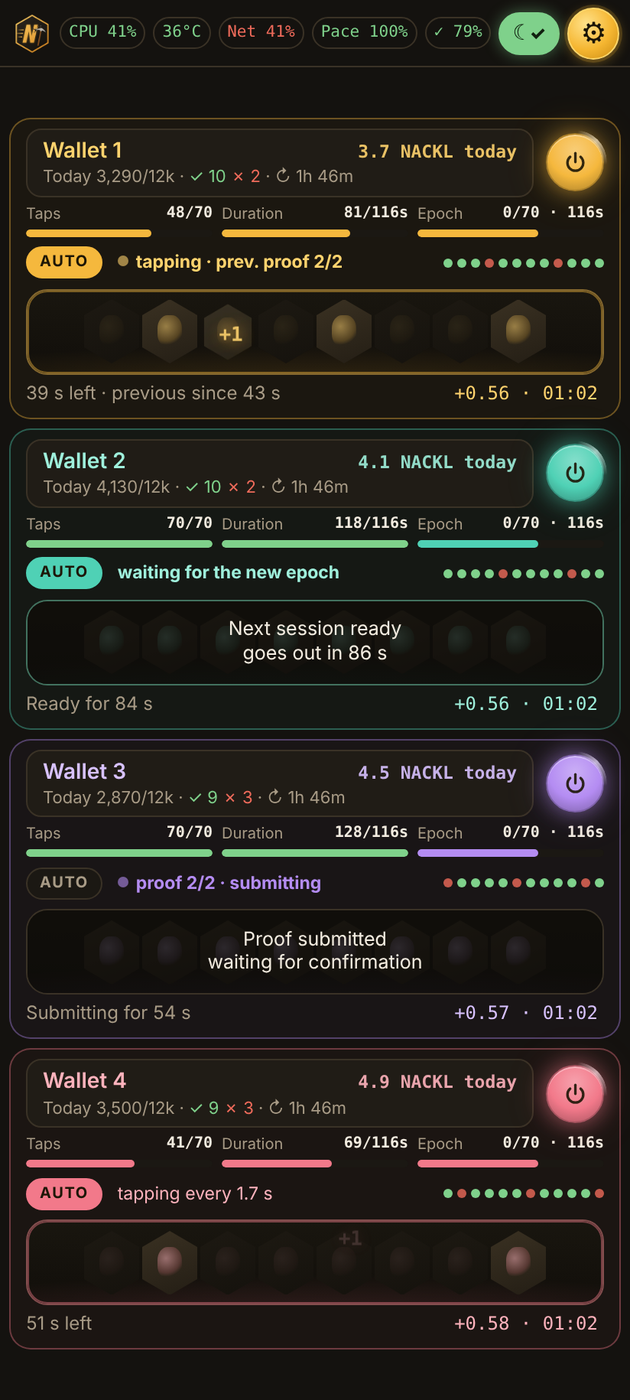
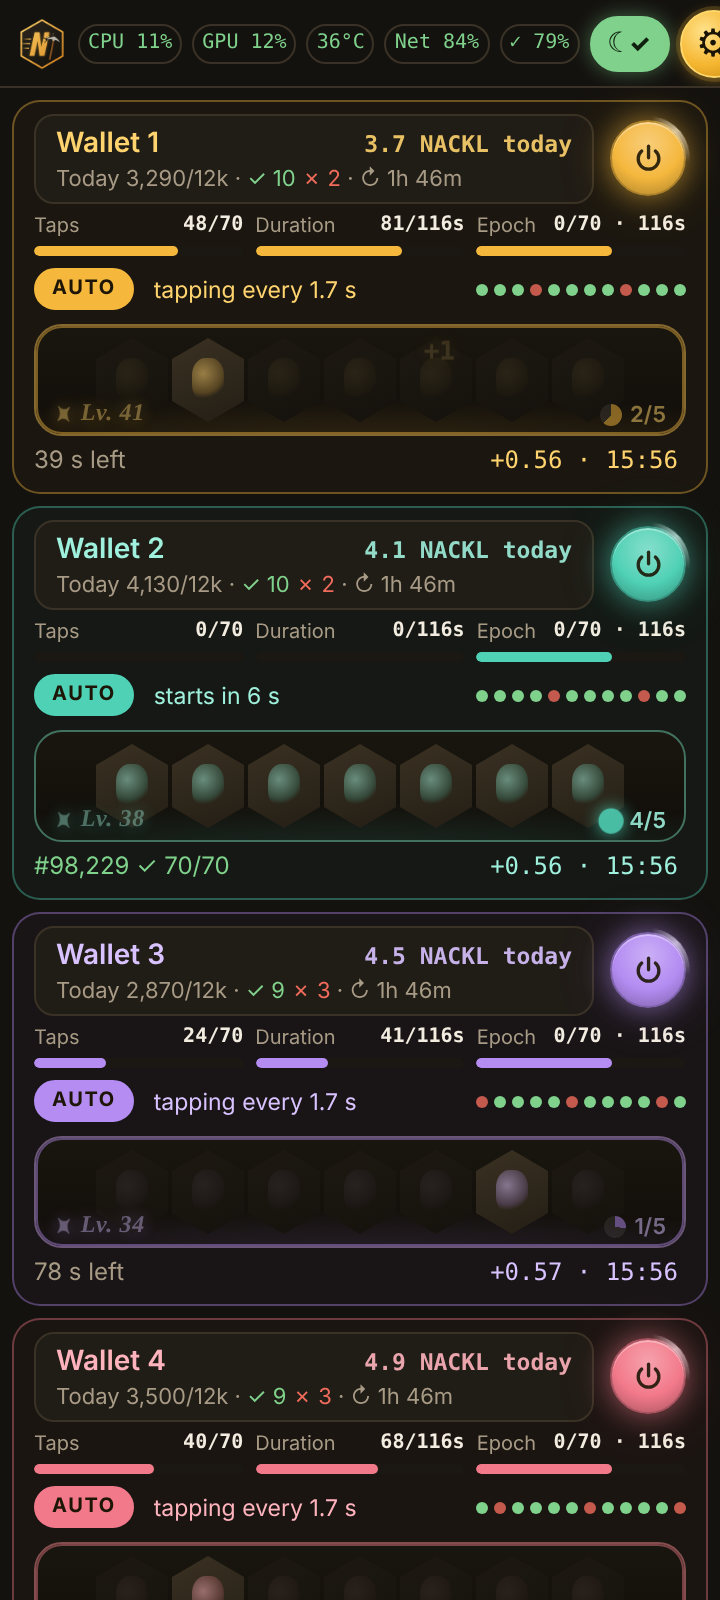
GPU complete

Changed region(s): [[0.0, 0.0, 1.0, 1.0]]

diff --git a/README.md b/README.md
@@ -6,7 +6,7 @@
 
 <p align="center">
   <b>All-in-one</b> Android app for Acki Nacki: <b>mining NACKL</b>, <b>Popit Game boost claims</b> and <b>MamaBoard upgrades</b> – 2 to 12 wallets at once on one phone or tablet.<br>
-  The app taps for you (<b>AUTO</b>), keeps digging with the screen off, claims your rewards and boost – <b>100 % local, no cloud</b>.
+  The app taps for you (<b>AUTO</b>), claims your rewards and boost – <b>100 % local, no cloud</b>.
 </p>
 
 <p align="center">
@@ -15,9 +15,9 @@
 </p>
 
 <p align="center">
-  <img src="docs/screenshots/NacklDigger-Android-landscape.png" width="860" alt="Tablet in landscape with eight wallets">
+  <img src="docs/screenshots/NacklDigger-Android-landscape.png" width="860" alt="Tablet in landscape with six wallets, four digging and two S-wallets in standby">
 </p>
-<p align="center"><em>Tablet with eight wallets in AUTO, today's NACKL next to each name (demo values)</em></p>
+<p align="center"><em>Tablet with six wallets: four digging with GPU assist (CPU 11 %, GPU 12 % in the header), two S-wallets waiting for Smart swap · wallet level (Lv.) and boost farm ring (x/5) in every tap row · today's NACKL next to each name (demo values)</em></p>
 
 > 🖥 **100 % local – no cloud.** Everything runs on your own phone or tablet: mining, boost claims and MamaBoard upgrades. There is no server or cloud service in between, so nobody else holds your keys or logins – but it uses the **real computing power of your device**: it gets slower for other apps, uses battery and **can get very warm**. Keep it on the charger, out of the sun and without a case, and use the built-in heat protection.
 
@@ -25,20 +25,22 @@
 
 ## Top features
 
-- 🐝 **2, 4, 6, 8, 10 or 12 wallets on one device** – one tap row per wallet, each on its own CPU core
+- 🐝 **2, 4, 6, 8, 10 or 12 wallets on one device** – one tap row per wallet
+- 🚀 **GPU assist** – the graphics chip searches the taps, 20× to 85× faster than one CPU core: ~10 % CPU, a cooler device and far more wallets per device (Tab S7 FE: 8 wallets at hard 21). WebGPU or OpenGL ES – also on Samsung Xclipse and older phones
 - 🤖 **AUTO by default** – a tap every 1.714 s per wallet, evenly spread, every tap visible in the row. Prefer your own finger? Switch the small **AUTO** button off and tap yourself
 - ⏻ **A real power button per wallet** – a softly breathing red standby light when off, a shimmer in the wallet's colour when on
 - 👀 **Always see what's running** – *root 1/2 · submitting*, *proof 2/2 · submitting*, *premined · ready*, also for the previous session while the next one is already being mined
-- ⚡ **Performance test** in ⚙ Settings – measures your device and tells you how many wallets it can run
+- ⚡ **Performance test** in ⚙ Settings – measures CPU and GPU and tells you how many wallets your device can run
 - 🔄 **Smart swap** – mark reserve wallets with an **S** (long press on the power button): when a running wallet is worn out late in the day, a fresh S-wallet takes over by itself – and at the new 24-h day everything switches back
 - 🌱 **Boost auto-claim** – connect a wallet once and the app claims the Popit Game farm boost 5× a day and upgrades your MamaBoard when you have enough boost
 - ↔ **Swap places** – hold a wallet's name for 1.5 s and drag it onto another; *Wallet 1, 2, …* stay with the position, colours move with the wallet
 - 🌙 **Smart swap (S-wallets)**
 - **Why:** the NACKL per session falls with the taps a wallet already has that day – roughly full value up to ~5k taps, about half at ~7k, a quarter at ~8k, and nothing after 12 000 (Miner contract). A fresh wallet earns full value even late in the day
 - **Mark reserve wallets:** long press (0.6 s) on a wallet's power button → a small pulsing **S**. Long press again removes it. S-wallets stay off until they are needed
-- **The rule:** a running wallet with **more than 6000 taps today** whose **last 6 payouts** are **15 % below** what the best free S-wallet earns fresh is switched off, the S-wallet on (*Smart swap: … → …* in the log). At most one swap per 20 min, a swapped-in wallet runs at least 1 h; when an S-wallet is worn out itself, the next one takes over
+- **The rule:** a running wallet with **more than 6000 taps today** (*Swap from* in the wallet sheet: 6k · 8k · 10k · **12k** – with 12k it runs to the daily limit, e.g. for the top ten) whose **last 6 payouts** are **15 % below** what the best free S-wallet earns fresh is switched off, the S-wallet on (*Smart swap: … → …* in the log). At most one swap per 20 min, a swapped-in wallet runs at least 1 h; when an S-wallet is worn out itself, the next one takes over
+- **Daily limit reached:** when a wallet stops at 12,000 taps, the best free S-wallet takes over for the rest of the day
 - **New 24-h day:** swapped-in S-wallets go off, the original wallets come back on
-- **Knows your wallets:** the expected value per session is learned from each wallet's own payouts; until then it is estimated from the **wallet level**, read from the chain. The wallet sheet shows level, *fresh*, *now* and the last 6 payouts
+- **Knows your wallets:** the expected value per session is learned from each wallet's own payouts while it has fewer than 4,000 taps that day; until then it is estimated from the **wallet level**, read from the chain (S-wallets that are off are checked every 30 min). The wallet sheet shows level, *fresh*, *now* and the last 6 payouts – **forget** deletes a learned value. ⚙ → *Smart swap · S-wallets* explains it all and lists your S-wallets
 - ⚠ **An S-wallet must not run anywhere else** – not on another device and not in another app. Each device only knows its own wallets
 
 **Boost · Popit Game**
@@ -46,24 +48,27 @@
 - **Automatic:** with ⚙ → *Boost · Popit Game* on, the app claims – also for wallets that are not mining – the farm reward as soon as it is ready (5× a day), starts the next round and – if *Auto upgrade* is ticked – buys the next MamaBoard part when your boost covers the price
 - **By hand:** *Claim now* and *Upgrade MamaBoard* buttons in the wallet sheet, with farm progress (x/5), boost balance and the next part
 - **In the tap row:** a small ring fills up until the next claim, *x/5* next to it; *+552 Boost* floats up when claimed
+- **Boost only:** all wallets can stay OFF – background mode keeps running just for boost claims and upgrades, so the device stays cool
+- **Login:** renews itself every hour while the app runs (wallet sheet shows *valid until*); if the app was completely off for more than 7 days, the tap row shows **⚠ Boost: connect again**
+- **Boost LVL** of the Popit Game farm next to the heading in the wallet sheet
 - Don't let another farm tool claim the same wallet at the same time
 
 **Order and numbering**
 - **Swap places by drag & drop:** hold a wallet's name for 1.5 s, then drag it onto another wallet (moving earlier just scrolls). **The number belongs to the position** – the top box is always *Wallet 1* – while each wallet keeps its colour
 - **Fewer wallets keep the ones in front:** with *Wallets on this device* = 6 the first 6 are shown; the others are only hidden (pairing kept) and come back when you raise the number. ⚙ Settings lists hidden paired wallets
 
-**Background mode (optional)** – reliable digging with the screen off: ☾ BG in the header, with a step-by-step setup (notifications, battery, manufacturer settings) and a notification with a Stop button
+**Background mode (optional)** – keeps the app alive behind other apps and for boost claims: ☾ BG in the header, with a step-by-step setup (notifications, battery, manufacturer settings) and a notification with a Stop button. For mining, keep the app in front with the screen dimmed to black (⚙ → *Extreme −100 %*)
 - 📶 **Network-friendly with many wallets** – staggered starts and sessions, shared status reads, smart resubmission and endpoint failover
 - 💰 **Today's NACKL next to every wallet**, rewards claimed automatically, per-epoch overview of sessions and payouts
 - ⛏ **See every result at a glance** – a gold-laden pickaxe for a confirmed session, a pickaxe bursting apart in slow motion for a failed one, a spinning $NACKL coin for every payout – right in the wallet's box, no pop-up messages covering the other wallets
 - 🔒 **Your wallet key never leaves the AN Wallet** – no account, no ads, no tracking
 
 <p align="center">
-  <img src="docs/screenshots/NacklDigger-Android-phone.png" height="460" alt="Phone with four wallets">
+  <img src="docs/screenshots/NacklDigger-Android-phone.png" height="460" alt="Phone with four wallets, level and boost ring">
   <img src="docs/screenshots/NacklDigger-Android-performance-test.png" height="460" alt="Performance test in the settings">
   <img src="docs/screenshots/NacklDigger-Android-background-mode.png" height="460" alt="Background mode setup">
 </p>
-<p align="center"><em>Phone with four wallets · performance test · background mode setup (demo values)</em></p>
+<p align="center"><em>Phone with four wallets · performance test at hard 21 with GPU assist · background mode setup (demo values)</em></p>
 
 <p align="center">
   <img src="docs/screenshots/NacklDigger-Android-effects.webp" width="860" alt="Wallet effects: confirmed session, failed session and payout">
@@ -75,7 +80,7 @@
 1. **Install** the APK from [Releases](https://github.com/NeoRider12/Nackl-Digger/releases/latest).
 2. **Pair** your AN Wallet: tap a wallet → *Wallet Connect* → confirm the connection and the mining key in the AN Wallet.
 3. **Press the wallet's power button** – it starts in **AUTO** and the app taps every 1.7 s for you (70 taps over about 2 minutes count per epoch of ~5.5 min).
-4. Optional: tap **☾ BG** to keep digging with the screen off, and run ⚙ → **Performance test** before adding more wallets.
+4. Best results: keep the app in front on the charger with ⚙ → **Dim screen while digging → Extreme −100 %**, and run ⚙ → **Performance test** before adding more wallets. ☾ **BG** keeps the app alive in the background (boost claims, short breaks).
 5. The app **submits** each session and shows `✓ confirmed` or `✗ …`. **NACKL arrives** in your wallet a few minutes later – the app claims it for you.
 
 ## All features
@@ -85,14 +90,20 @@
 - **AUTO or manual per wallet** – one small AUTO toggle; AUTO is the default and has no knobs to get wrong, switched off you tap yourself
 - **Power button per wallet** (top right): red standby glow when off, wallet-coloured shimmer when on, a fast-running ring while a restore runs
 - **Clear status lines:** next to AUTO the current step (*root 1/2 · submitting*, *root ✓ · waiting for interval*, *proof 2/2 · submitting*, *premined · ready*, or *tapping · prev. proof 2/2* while the previous session is still being submitted); in the tap row what is happening right now; at the bottom times and the last payout
-- **Multi-core:** every wallet computes its proof on its own CPU core; the engine is compiled once for all wallets
-- **Performance test:** one core, then 2/4/6/8/10/12 wallets at once, at the current difficulty – with a recommendation
+- **GPU assist** (on by default when a usable GPU is found, switch in ⚙): every tap is searched on the graphics chip – BLAKE3 like the Bee Engine, one compression per try. Self-test at start, every nonce is checked again on the CPU and in the engine, taps keep their real timestamp; on any error the CPU takes over. Two ways to the GPU:
+  - **WebGPU** – Qualcomm Adreno, ARM Mali and Intel on Android 12+
+  - **OpenGL ES 3.1** compute (native) – where the WebView blocks WebGPU, e.g. **Samsung Xclipse** (Galaxy A55) or Qualcomm/Mali phones below Android 12
+  - Measured at hard 21: Tab S7 FE (Adreno 642L) ~125 MH/s · Galaxy A55 (Xclipse 530) ~100 MH/s · Tab A9+ (Adreno 619) ~60 MH/s · Redmi Note 7 (Adreno 512, Android 10) ~13 MH/s – one CPU core does ~1–2 MH/s
+  - Header shows **GPU %** (how busy the GPU is with tap searches, from the performance test); the per-minute log line shows GPU/CPU taps, ⌀ ms per tap and temperatures
+- **Multi-core:** without GPU every wallet computes its taps on its own CPU core; the engine is compiled once for all wallets
+- **Performance test:** 1 wallet alone, then 2/4/6/8/10/12 wallets at once, plus the GPU, at the current difficulty – with a recommendation (*With GPU assist up to N*). Wallets that are ON are paused for the test and switched back on afterwards. The difficulty is known even with all wallets off (last value, read once at start); before the first pairing you can pick it yourself (*auto · 20–25*)
 - **Epoch-aware:** shows taps, duration and time left; waits for the next epoch instead of starting a session that could not finish in time
 - **Premining:** the next session is mined while the previous one is still being submitted. If the previous one was credited, the next goes out right after the new epoch starts – no epoch is lost to a slow network (Bee Engine patches by the author of goblingames). A premined session that can't be used after a failure is not counted as a second failure
 - **Patient submitting:** root (up to 210 s) and proof (up to 240 s) are resent unchanged, also after the epoch has ended – the session still counts
 
 **Background mode (optional)**
-- Keeps taps, submissions and reward claims running with the screen off or another app in front
+- Keeps the app alive with another app in front or the screen off – enough for boost claims, reward claims and short breaks
+- ⚠ With the screen fully off for hours, it depends on the device: some throttle, and in our tests Samsung ended the app after 1–2.5 h even with *Unrestricted* battery. For mining through the night keep the screen on and dimmed to black (⚙ → *Extreme −100 %*)
 - Setup sheet with checklist: notifications, *no battery restrictions*, and the exact menu path for Samsung, Xiaomi/Redmi, Huawei/Honor, Oppo/Realme/OnePlus, Vivo, Asus and Tecno/Infinix/itel
 - Permanent notification with live status, **Total NACKL today · yesterday** of all wallets and a Stop button; runs only while a wallet is ON
 
@@ -116,21 +127,29 @@
 - **Confirmed session:** a pickaxe with gold nuggets pulses in the wallet box, with the confirmed taps below it (`70 ✓`)
 - **Failed session:** the broken pickaxe bursts apart in slow motion, with the reason below it (`✗ not confirmed`)
 - **Payout:** an embossed $NACKL coin spins in the middle of the box, with the amount below it (`+0.56 NACKL`)
-- Success and payout run 10 seconds, a failure 6 seconds; several effects of one wallet play one after another. Buttons underneath stay usable
+- Success and payout run 10 seconds, a failure 6 seconds; effects play one after another on the whole device (so they don't take GPU time from mining). Buttons underneath stay usable
+- **Tristesse mode** (⚙): *Low* = no effects · *Mid* = also no animations · *High* = also all wallets grey
 - Pop-up messages only for things that need you, like a wallet that has to be paired again
 - **Wallet without payouts:** if a wallet's confirmed sessions bring no NACKL, it is not switched off any more – a notice over the wallet with a **Pair again** button shows it, and it disappears by itself as soon as a payout arrives
+- **Taps counted:** if the contract counts fewer taps than were sent (device too slow for this many wallets at the current difficulty), the session dot turns into a **green ring** – run fewer wallets on that device
+- **Session dots:** green = confirmed, green ring = confirmed but only part of the taps counted, red = failed
+- **Wallet sheet:** *Status – ON/OFF since hh:mm*
 - **Device overloaded:** if the app freezes several times for seconds (too many wallets for the device, little memory), a hint under the header says so, with a **Performance test** button – or **Restart app** if multi-core stopped
 
 <p align="center">
-  <img src="docs/screenshots/NacklDigger-Android-portrait.png" height="520" alt="Tablet in portrait with eight wallets">
-  <img src="docs/screenshots/NacklDigger-Android-wallet-sheet.png" height="520" alt="Wallet sheet with epochs and payouts">
+  <img src="docs/screenshots/NacklDigger-Android-portrait.png" height="520" alt="Tablet in portrait with six wallets">
+  <img src="docs/screenshots/NacklDigger-Android-wallet-sheet.png" height="520" alt="Wallet sheet with level, Smart values and Boost · Popit Game">
 </p>
-<p align="center"><em>Tablet in portrait with eight wallets · wallet sheet with epochs and payouts (demo values)</em></p>
+<p align="center"><em>Tablet in portrait with six wallets · wallet sheet with level, Smart values, *Swap from* and Boost · Popit Game – farm, MamaBoard, login status (demo values)</em></p>
 
 **Comfort & safety**
-- Header with CPU load, device temperature, network quality, **Pace** and success rate (wallets that are ON). *Pace %* shows how much of what the wallets want to send to the block producer the shared budget allows – ~100 % with 1–2 wallets, much lower when many wallets share a tight line; great for comparing connections or VPN exits. ⚙ → *Statistics* keeps min/max of Net, Pace, battery temperature and difficulty since app start, and shows what your connection tolerates at the block producer (*Line ≈ N/min*, measured with 5–6 wallets in 15–20 min). *Net %* is honest: it counts every single submit answer including retries (*queue full*, 429, no answer), so it shows how tough the network really is – the ✓ rate next to it shows what still got through. While all wallets rest, *Net ~31 %* (dashed) keeps the last value measured while submitting instead of the much higher read-only value
+- Header with CPU load, **GPU %**, device temperature, network quality, **Pace** and success rate (wallets that are ON). *Pace %* shows how much of what the wallets want to send to the block producer the shared budget allows – ~100 % with 1–2 wallets, much lower when many wallets share a tight line; great for comparing connections or VPN exits. ⚙ → *Statistics* keeps min/max of Net, Pace, battery temperature and difficulty since app start, and shows what your connection tolerates at the block producer (*Line ≈ N/min*, measured with 5–6 wallets in 15–20 min). *Net %* is honest: it counts every single submit answer including retries (*queue full*, 429, no answer), so it shows how tough the network really is – the ✓ rate next to it shows what still got through. While all wallets rest, *Net ~31 %* (dashed) keeps the last value measured while submitting instead of the much higher read-only value
 - Heat protection: switches the wallets off when the device gets too hot and **back on by itself once it has cooled down** (background mode stays active meanwhile); daily tap limit; optional off/on at the new 24-h epoch – can also be applied to the day already running
-- **Encrypted backup** of settings and all pairings (restore after reinstalling)
+- **Encrypted backup** of settings and all pairings, S-wallet marks, *Swap from* and AUTO/MANUAL (restore after reinstalling; Boost logins connect again)
+- **App update** (⚙ → Backup): the button lights up when a newer release is on GitHub and downloads the APK
+- **Quit app** (⚙ header, tap twice) closes the app completely – also when it's locked in the recent-apps view. The **back button** only sends the app to the background, it keeps mining
+- **Balances:** locked/unlocked total of all wallets in ⚙ → *Statistics*, once an hour in the log
+- **Temperature details** (tap the temperature): battery, CPU and GPU where readable, *Heat load* from Android (100 % = throttling)
 - Optional screen dimming while digging, down to **Extreme (−100 %)**: fully black with the lowest backlight, a tap lights it up for 30 s / 1 / 5 / 15 min (ring timer in ⚙)
 - Exportable log
 
@@ -157,22 +176,22 @@ Live page showing how many Acki Nacki block keepers support the next node versio
 AUTO is the easy way: press the power button and let the app dig. To tap yourself, switch the small AUTO button off. It only taps while the wallet is ON and a session can still finish in the epoch, and it stops at the network's daily limit of 12,000 taps per wallet. Run ⚙ → *Performance test* once to see how many wallets your device keeps up with.
 
 **How many wallets can my device run?**
-Open ⚙ → *Performance test* (about 20 s, best with all wallets off). It measures your device at the current difficulty and recommends how many wallets it can run (up to 12). With 8 or more wallets keep an eye on the temperature in the header during the first hour – heat protection switches wallets off if the device gets too hot.
+Open ⚙ → *Performance test* (about 25 s; wallets that are ON are paused for it). It measures CPU and GPU at the current difficulty and recommends how many wallets your device can run (up to 12). With GPU assist the device is rarely the limit – the internet connection and the network are: add wallets step by step and watch the ✓ rate and *Pace*. With 8 or more wallets keep an eye on the temperature in the header during the first hour – heat protection switches wallets off if the device gets too hot.
 
 **Can I switch the screen off?**
-Yes, with ☾ **BG** (background mode) in the header. It shows a notification while it runs and asks once for notifications and *no battery restrictions*. On Xiaomi/Redmi, Samsung and some other brands also allow *Autostart* / *Never sleeping apps* – the setup sheet shows where to find it. Don't swipe the app away in the recent-apps list.
+For **boost claims** yes – with ☾ **BG** (background mode) the app keeps running. For **mining** through the night better not: it depends on the device – in our tests Samsung tablets ended the app after 1–2.5 h with the screen fully off, even with *Unrestricted* battery (exit reason in the log). Short breaks of up to an hour worked fine with GPU assist. Instead keep the app in front with **⚙ → Dim screen while digging → Extreme −100 %**: the screen stays on but fully black with the lowest backlight, best on the charger. BG mode asks once for notifications and *no battery restrictions*; on Xiaomi/Redmi, Samsung and some other brands also allow *Autostart* / *Never sleeping apps* – the setup sheet shows where to find it. Don't swipe the app away in the recent-apps list.
 
 **The app keeps getting closed in the background – what can I do?**
 First tap ☾ **BG** in the header (or ⚙ → *Set up background mode*) and tick off the checklist: notifications, *no battery restrictions* and the manufacturer setting shown there (*Autostart*, *Never sleeping apps* …). If Android still ends the app, it is usually **memory**: every wallet runs its own engine and needs its own share of RAM, so 8–12 wallets on a phone with 3–4 GB can be too much while other apps are open. **Start fewer wallets** (e.g. 4 instead of 8) and close apps you don't need.
 **Most reliable alternative:** leave the app in front with **⚙ → Dim screen while digging → Extreme −100 %**. The screen stays on but is fully black with the lowest backlight, so Android treats the app as in use and doesn't end it – a tap lights it up again. Best on the charger. The log shows free memory every 10 minutes (*Memory: … MB free*), warns with *Memory LOW* when Android may start ending apps, and – on Android 11 and newer – tells you after a restart why Android ended the app.
 
 **What is Smart swap and when should I use it?**
-If you have more wallets than slots that run well on a device (sweet spot: 4), mark the extra ones as **S-wallets** (long press on the power button). They wait while your main wallets dig and take over automatically once a main wallet has more than 6000 taps and earns clearly less than a fresh S-wallet would – usually in the second half of the 24-h day. At the new day the main wallets come back. Important: an S-wallet must not be switched on on another device or in another app at the same time.
+If you have more wallets than slots that run well on a device (see the performance test), mark the extra ones as **S-wallets** (long press on the power button). They wait while your main wallets dig and take over automatically once a main wallet has more than 6000 taps and earns clearly less than a fresh S-wallet would – usually in the second half of the 24-h day. When a wallet reaches the daily limit, a free S-wallet takes over too. With *Swap from 12k* (wallet sheet) a wallet is never swapped out early. At the new day the main wallets come back. Important: an S-wallet must not be switched on on another device or in another app at the same time.
 
 **Nothing gets through – what can I try?**
 Work through this list – most problems are solved by the first points:
 1. **Update** to the latest APK and **restart the phone** (frees memory, fresh network connection).
-2. **Start small:** 1–2 wallets first, add more only when they run well. Run ⚙ → *Performance test* and stay at or below the recommendation – **4 wallets per device** is the sweet spot.
+2. **Start small:** 1–2 wallets first, add more only when they run well. Run ⚙ → *Performance test* and stay at or below the recommendation – without GPU assist about **4 wallets per device**.
 3. **Close other apps**, especially games, browsers with many tabs and other mining apps. Never run the same wallet in two apps or on two devices at the same time.
 4. **Keep the app in front**, best on the charger with **⚙ → Dim screen while digging → Extreme −100 %** – or set up ☾ **BG** completely (notifications, no battery restrictions, Autostart).
 5. **Give it time:** wait **at least 30 minutes** before judging. The network has busy phases where every app gets little through; the app keeps retrying and claims payouts by itself.
@@ -195,7 +214,11 @@ No. Each wallet has one mining key per app – pairing it on a second device rep
 The nodes limit requests per internet connection, and all devices on it count together. When *429 Too Many Requests* piles up, all wallets of a device share a request budget for the block producer that adapts by itself (log: *Block producer pace: … requests/min*; ⚙ → *Statistics* shows *Pace* and *Line*). Devices behind different connections (or VPN exits) don't count together.
 
 **How many wallets per device – what is the sweet spot?**
-About **4 wallets per device and connection**. A device confirms roughly the same number of sessions per hour whether it runs 4, 5 or 6 wallets – extra wallets mostly share the same sessions. A 5th wallet only pays off if it earns about as much per session as the others: in our test a weak 5th wallet added only ~4 % sessions to the device but took ~17 % from the four strong ones – a net loss. From **6 wallets on** the success rate drops clearly. So rather spread strong wallets over several devices (or connections) than piling them onto one.
+**With GPU assist** the device is rarely the limit any more: our Tab S7 FE runs **8 wallets at hard 21** with the GPU only ~10 % busy and ~80 % of the sessions confirmed even on busy network days. The limit is the **internet connection and the network** – all wallets of a device share one request budget (*Pace*), and devices on one connection count together. Add wallets step by step and watch the ✓ rate and *Pace*; spread many wallets over connections (or VPN exits). Rough GPU headroom for 8 wallets: Tab S7 FE up to hard 23–24, Tab A9+ up to hard 22–23.
+**Without GPU** (CPU only) it's about **4 wallets per device** – at hard 21 often fewer: every +1 doubles the work per tap. At hard 21 a Galaxy Tab S7 FE ran 3–4 wallets fully on the CPU, a Tab A9+ 2–3 and a Redmi Note 7 none. Watch for **green rings** in the session dots (fewer taps counted). Our CPU-era tests (early November): a 5th wallet added only ~4 % sessions but took ~17 % from the four others, and from 6 wallets on the success rate dropped clearly.
+
+**Which GPUs work for GPU assist?**
+The app tries **WebGPU** first (Chrome/WebView allows it on Android 12+ for Qualcomm Adreno, ARM Mali and Intel; PowerVR from Android 16) and otherwise **OpenGL ES 3.1** compute – that covers e.g. Samsung Xclipse (Exynos) and older phones below Android 12. The log says at start which way is used (*GPU assist: on – … self-test passed*); ⚙ → *Performance test* shows the speed. If neither works, the app mines on the CPU as before.
 
 **Why does a wallet earn less per session late in the day?**
 In our logs the NACKL per session falls with the taps a wallet already has that day: roughly full value up to ~4–5k taps, then clearly less (about half at ~6–7k, about a quarter at ~8k). Other wallets are not affected – a fresh wallet earns full value even late in the day. That's why it pays to run your stronger wallets (higher NACKL per session) spread over your devices from the start of the 24-h day, and if you have more wallets than slots, to swap a wallet at ~5k taps for a fresh one. Never switch the same wallet on in two apps or on two devices at the same time.

diff --git a/bee-engine/README.md b/bee-engine/README.md
@@ -1,54 +1,20 @@
-# Modified Bee Engine (GNU AGPL-3.0)
+# Patched Bee Engine SDK
 
-NeoRiders Nackl Digger ships a **modified build of Bee Engine v6.0.0** by GOSH TECHNOLOGY LTD.
-Bee Engine is licensed under the **GNU Affero General Public License v3.0** – see [LICENSE.md](LICENSE.md).
-This folder is the corresponding source of the modification.
-
-## Upstream
-
-- Repository: https://github.com/gosh-sh/bee-engine
-- Tag: `v6.0.0` (commit `015bc466613e7b7c41f272dc16ba0cacbf0e4d93`)
-
-## Modification
-
-Four patches, applied in file-name order:
+The Android build uses `gosh-sh/bee-engine` **v6.0.0** (commit `015bc466613e7b7c41f272dc16ba0cacbf0e4d93`)
+with five patches, applied in file-name order:
 
 | Patch | From | What it does |
 |---|---|---|
-| [`0001-newgoblin-delivery-and-diagnostics.patch`](0001-newgoblin-delivery-and-diagnostics.patch) | goblingames (NewGoblin) | Root and proof are signed once and the same message is resent until accepted, landed on chain or a deadline; submit policy and epoch deadline set by the app; interval read from the chain if the event is missing; stale session data cancelled; diagnostic callbacks. |
-| [`0002-newgoblin-premine.patch`](0002-newgoblin-premine.patch) | goblingames (NewGoblin) | **Premine**: while one session is being submitted, the next one is mined, held and submitted once the previous one is through. |
-| [`0003-newgoblin-premine-chain-wait.patch`](0003-newgoblin-premine-chain-wait.patch) | goblingames (NewGoblin) | Premine waits when the chain read is one seed rotation behind. |
-| [`0004-neorider-polling-difficulty-benchmark.patch`](0004-neorider-polling-difficulty-benchmark.patch) | NeoRider | Lighter miner event polling (2.5 s only while a worker is alive, else 10 s; 25 instead of 100 events), mining difficulty in `get_miner_data`, `benchmark_hashes` for the performance test. |
+| `0001-newgoblin-delivery-and-diagnostics.patch` | goblingames (NewGoblin) | Root and proof are signed once and the same message is resent until accepted, landed on chain or a deadline; `set_submit_policy(root_ms, proof_ms, retry_min_ms, retry_max_ms)`, `set_epoch_deadline(ms)`, `get_session_state()`; interval read from the chain if the event is missing; stale session data cancelled; diagnostic callbacks (`send_attempt`, `interval_from_chain`, …). |
+| `0002-newgoblin-premine.patch` | goblingames (NewGoblin) | **Premine**: while one session is being submitted, a second worker mines the next one (`can_premine()`, `premine(ms, cb)`), holds it and submits it after `release_submit()` once the previous one is through; `discard_premine()`. |
+| `0003-newgoblin-premine-chain-wait.patch` | goblingames (NewGoblin) | Premine waits when the chain read is one seed rotation behind. |
+| `0004-neorider-polling-difficulty-benchmark.patch` | NeoRider | Miner events polled every 2.5 s only while a worker is alive (else 10 s), last 25 instead of 100 events; `get_miner_data` returns `easy_complexity` / `hard_complexity` and `mbi_cur` (wallet level); `benchmark_hashes(complexity, ms)` for the performance test. |
+| `0005-neorider-gpu-assist.patch` | NeoRider | **GPU assist**: `tap_params()` returns the next tap leaf's `{seed, index, complexity}` (JSON); `add_tap_nonce(x, y, now_ms, nonce_lo, nonce_hi)` queues a tap with a nonce found by the app on the GPU (WebGPU or OpenGL ES). The engine computes and checks the leaf itself and falls back to its own CPU search if the nonce does not meet the target; `tap_computed` reports `gpu: true/false`. |
 
-Patches 0001–0003 and [`Cargo.lock`](Cargo.lock) are taken unchanged from the Corresponding Source published by goblingames: https://github.com/andresCadavidT/goblingames/tree/main/source/bee-sdk-6.0.0-ng.3 – thanks to its author for sharing it.
+Patches 0001–0003 and `Cargo.lock` are taken unchanged from the Corresponding Source published by
+goblingames: https://github.com/andresCadavidT/goblingames/tree/main/source/bee-sdk-6.0.0-ng.3 –
+thanks to its author for sharing it.
 
-No other files are changed.
-
-## Build
-
-Requirements: Rust (stable) with target `wasm32-unknown-unknown`, `wasm-pack`, `clang` and `llvm` (for `blst`).
-
-```bash
-# some dependencies are listed as ssh:// – the repositories are public over HTTPS
-git config --global url."https://github.com/".insteadOf "ssh://git@github.com/"
-git config --global url."https://github.com/".insteadOf "git@github.com:" --add
-
-git clone --depth 1 --branch v6.0.0 https://github.com/gosh-sh/bee-engine.git
-cd bee-engine
-sed -i '/^dodex-sdk = /d' bee_wallet/Cargo.toml   # dev-dependency only, as upstream CI
-for p in 0001-newgoblin-delivery-and-diagnostics 0002-newgoblin-premine 0003-newgoblin-premine-chain-wait 0004-neorider-polling-difficulty-benchmark; do
-  git apply /path/to/$p.patch
-done
-cp /path/to/Cargo.lock .
-
-export CC_wasm32_unknown_unknown=clang
-export AR_wasm32_unknown_unknown=llvm-ar
-bash scripts/build_wasm.sh sdk
-# result: bee_sdk/pkg/bee_sdk.js, bee_sdk_bg.wasm, bee_sdk.d.ts
-```
-
-These three files replace the ones from the npm package `@teamgosh/bee-sdk@6.0.0` inside the app.
-
-## Copyright
-
-Bee Engine © 2026 GOSH TECHNOLOGY LTD. – Patches 0001–0003 by the author of goblingames, patch 0004 © 2026 NeoRider; all provided under the same license (AGPL-3.0).
+The GitHub workflow clones v6.0.0, removes the `dodex-sdk` dev-dependency (as upstream CI), applies the
+patches, uses this `Cargo.lock`, builds the WASM with `scripts/build_wasm.sh sdk` and replaces the files of
+`@teamgosh/bee-sdk` before bundling. Bee Engine is AGPL-3.0; all patches are under the same licence.
